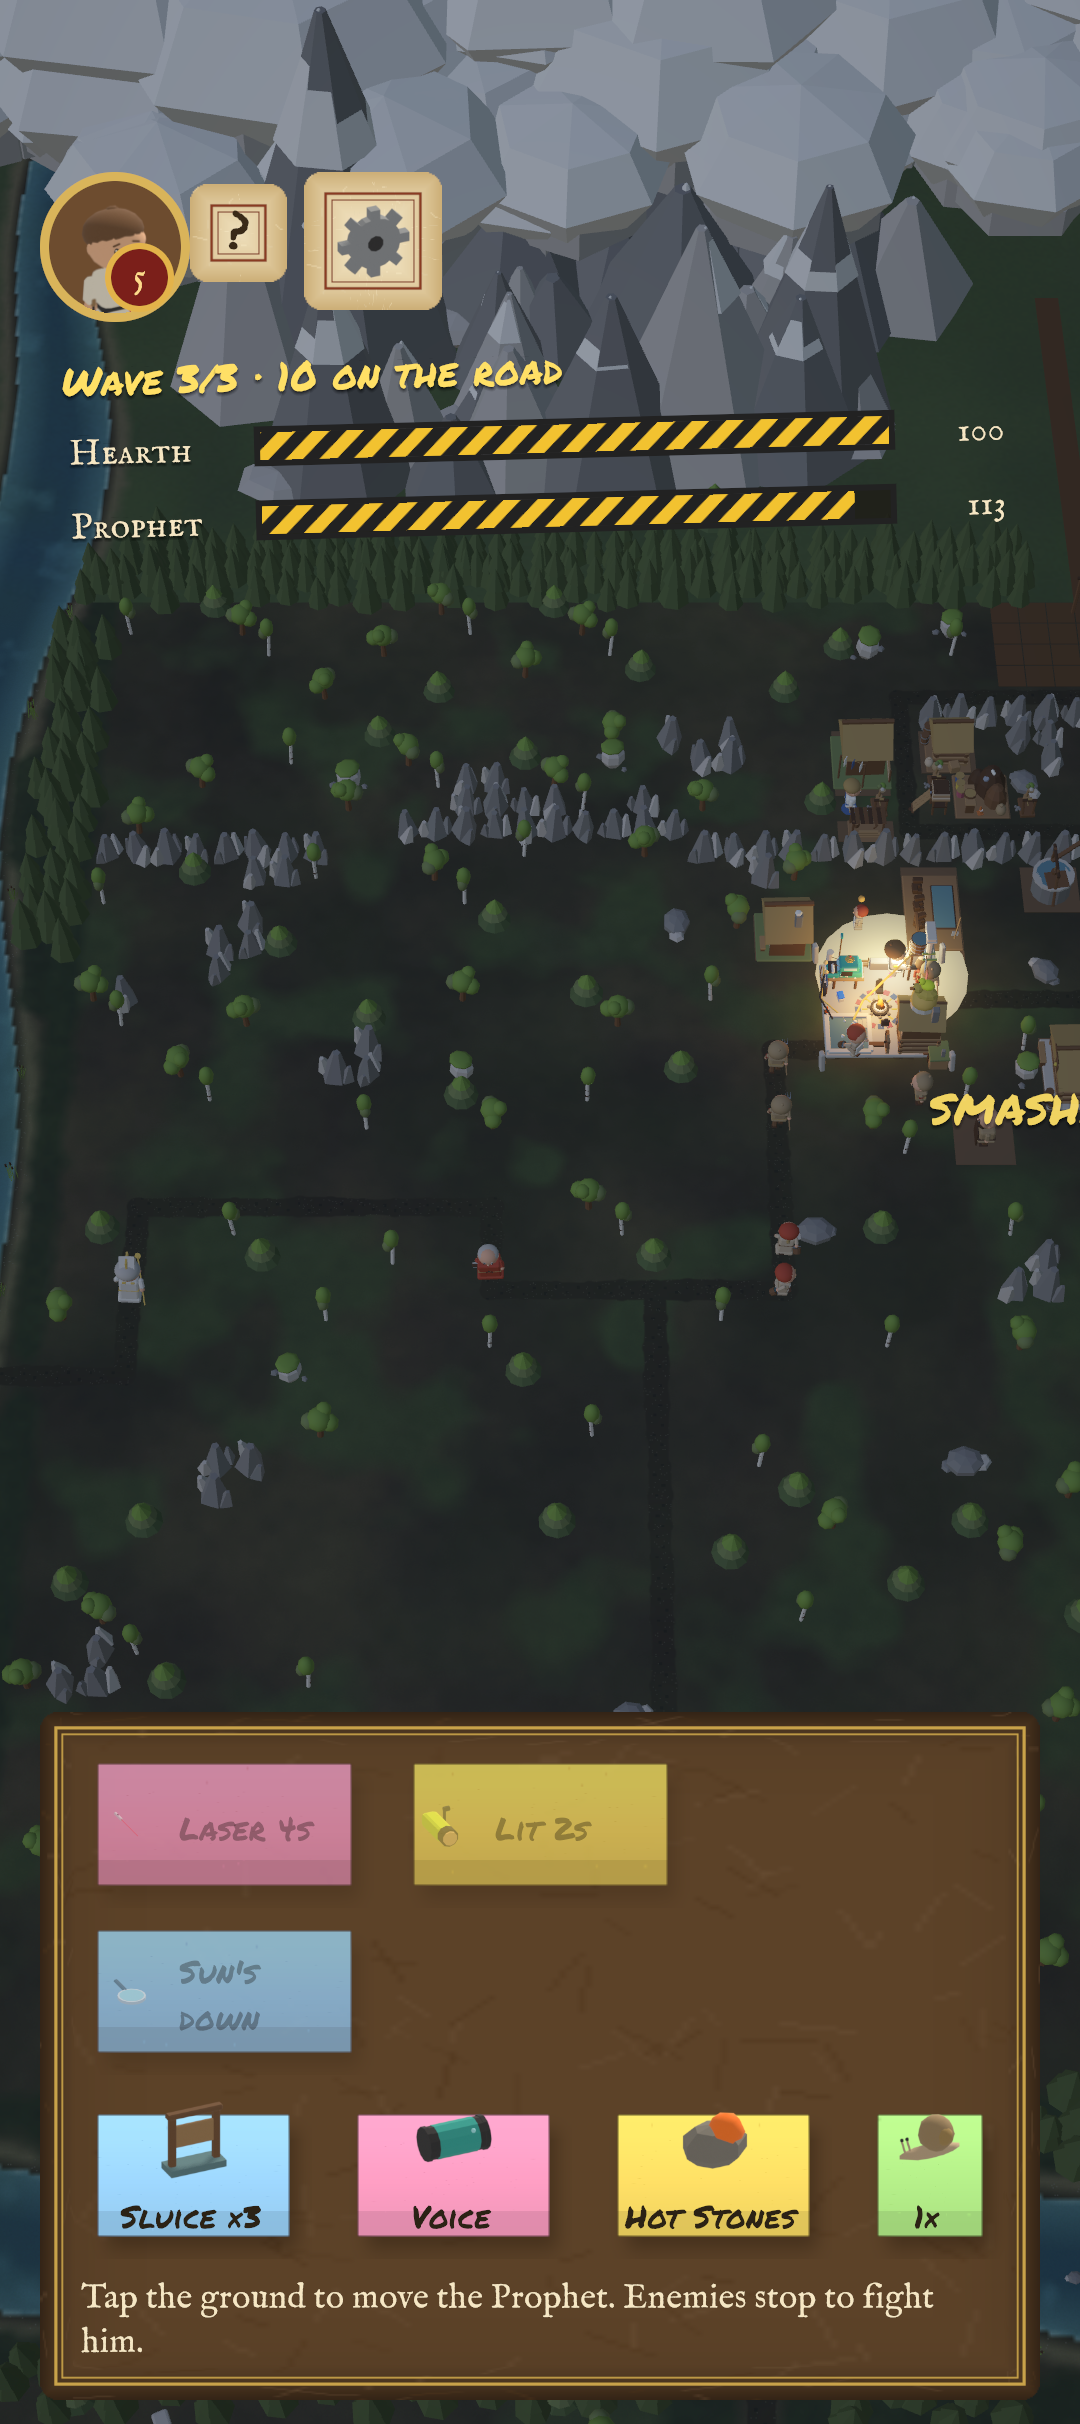
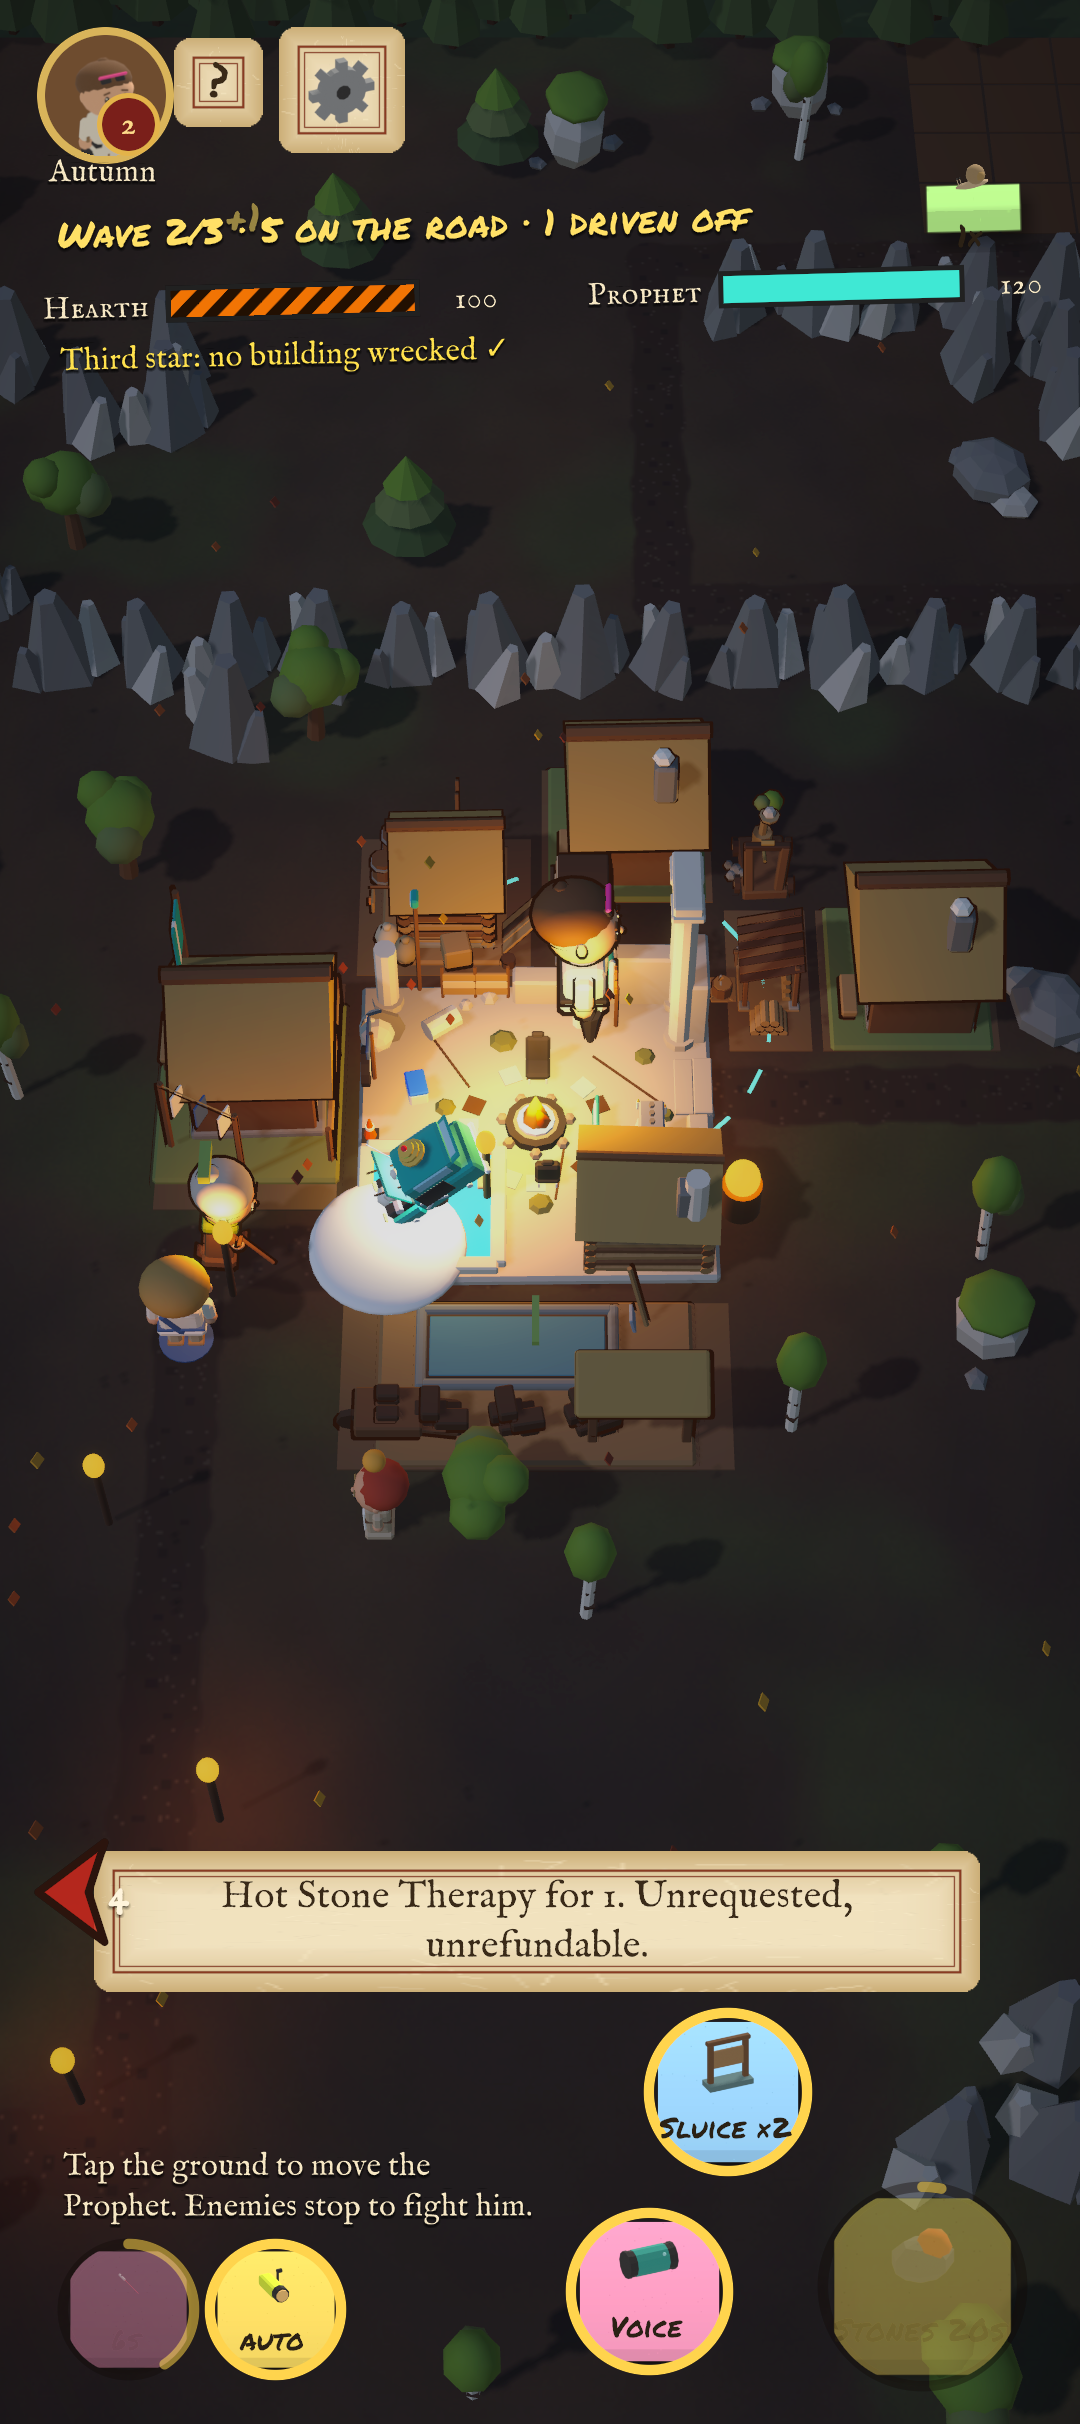
Fun first F5, the store: a new feature graphic from a close Night (the Hearth's glow, the fire), and three new screenshots captured in the game at the Pixel's 1080 × 2424 (a lived-in Hearth 2 village, Hot Stones landing by the Hearth, the breather's boons); NightCapture_Store_WritesShots takes them.

diff --git a/client/CultOfComfort.Unity/Assets/Tests/PlayMode/NightCapture.cs b/client/CultOfComfort.Unity/Assets/Tests/PlayMode/NightCapture.cs
@@ -1,6 +1,7 @@
 using System;
 using System.Collections;
 using System.IO;
+using System.Linq;
 using CultOfComfort.Contracts;
 using NUnit.Framework;
 using UnityEngine;
@@ -144,7 +145,46 @@ namespace CultOfComfort.Client.Tests
             PlayerPrefs.DeleteKey(GameController.RosterSeenKey);
         }
 
-        private static IEnumerator Capture(bool portrait)
+        /// <summary>
+        /// The store's captures (spec 2026-11-17 fun first, F5): the Pixel's full 1080 × 2424, a lived-in village at Dusk,
+        /// a close Night with the Prophet mid-skill, the breather's boons. Into store-assets/_src/shots/ for build.mjs.
+        /// </summary>
+        [UnityTest]
+        public IEnumerator NightCapture_Store_WritesShots() => Capture(true, forStore: true);
+
+        /// <summary>A village worth a screenshot: Hearth 2, the first buildings, two towers by the road. Spots found by trying.</summary>
+        private static CultOfComfort.Simulation.Base.BaseData LivedIn(DateTimeOffset now)
+        {
+            var rich = new CultOfComfort.Simulation.Base.BuildingTable { StartingStock = new CultOfComfort.Simulation.Base.ResourceBag(20000, 5000, 5000, 500) };
+            var map = CultOfComfort.Simulation.Base.VillageMap.Demo;
+            var state = CultOfComfort.Simulation.Base.BaseState.CreateNew(rich, map, now);
+            state.Apply(new CultOfComfort.Simulation.Base.UpgradeHearth(Guid.NewGuid()), now);
+            state.Apply(new CultOfComfort.Simulation.Base.FinishConstructionNow(Guid.NewGuid()), now);
+            var hearth = map.HearthTiles[0];
+            var spots = Enumerable.Range(0, map.Width).SelectMany(x => Enumerable.Range(0, map.Height).Select(y => new CultOfComfort.Simulation.Grid.GridPosition(x, y)))
+                .OrderBy(p => Math.Abs(p.X - hearth.X) + Math.Abs(p.Y - hearth.Y)).ToList();
+            foreach (var type in new[]
+                     {
+                         CultOfComfort.Simulation.Base.BuildingType.Woodcutter, CultOfComfort.Simulation.Base.BuildingType.Cottage,
+                         CultOfComfort.Simulation.Base.BuildingType.StorageHut, CultOfComfort.Simulation.Base.BuildingType.CultistHut,
+                         CultOfComfort.Simulation.Base.BuildingType.PeatCut, CultOfComfort.Simulation.Base.BuildingType.Cottage,
+                         CultOfComfort.Simulation.Base.BuildingType.SlurryChute, CultOfComfort.Simulation.Base.BuildingType.SaplingFlinger,
+                     })
+            {
+                foreach (var spot in spots.Skip(6))
+                {
+                    if (state.Apply(new CultOfComfort.Simulation.Base.PlaceBuilding(Guid.NewGuid(), type, spot), now).Status == CultOfComfort.Simulation.Base.CommandStatus.Accepted)
+                    {
+                        state.Apply(new CultOfComfort.Simulation.Base.FinishConstructionNow(Guid.NewGuid()), now);
+                        break;
+                    }
+                }
+            }
+
+            return state.ToData();
+        }
+
+        private static IEnumerator Capture(bool portrait, bool forStore = false)
         {
             var clock = new Clock();
             var table = CultOfComfort.Simulation.Base.BuildingTable.Default;
@@ -154,6 +194,10 @@ namespace CultOfComfort.Client.Tests
             if (!string.IsNullOrEmpty(path) && File.Exists(path))
             {
                 data = VillageSaveMapping.FromDto(JsonUtility.FromJson<VillageSaveDto>(File.ReadAllText(path)));
+            }
+            else if (forStore)
+            {
+                data = LivedIn(clock.UtcNow);
             }
             else
             {
@@ -169,14 +213,14 @@ namespace CultOfComfort.Client.Tests
             yield return Frames(6);
             yield return GroundPainted();
 
-            var width = portrait ? Short : Long;
-            var height = portrait ? Long : Short;
+            var width = forStore ? 1080 : portrait ? Short : Long;
+            var height = forStore ? 2424 : portrait ? Long : Short;
             var game = UnityEngine.Object.FindAnyObjectByType<GameController>();
             var document = game.GetComponent<UIDocument>();
             var ui = new RenderTexture(width, height, 24);
             document.panelSettings.targetTexture = ui;
             document.panelSettings.scaleMode = PanelScaleMode.ConstantPixelSize;
-            document.panelSettings.scale = Scale;
+            document.panelSettings.scale = forStore ? Scale * 2f : Scale;
             document.panelSettings.clearColor = true;
             document.panelSettings.colorClearValue = new Color(0f, 0f, 0f, 0f);
             var world = new RenderTexture(width, height, 24) { antiAliasing = 4 };
@@ -187,6 +231,12 @@ namespace CultOfComfort.Client.Tests
             var suffix = portrait ? "portrait" : "landscape";
             var output = Path.GetFullPath(Path.Combine(Application.dataPath, "..", "..", "..", "art", "previews", "night"));
             Directory.CreateDirectory(output);
+            if (forStore)
+            {
+                yield return StoreShots(game, world, ui, Path.GetFullPath(Path.Combine(Application.dataPath, "..", "..", "..", "store-assets", "_src", "shots")));
+                yield break;
+            }
+
             Save(world, ui, Path.Combine(output, $"dusk_{suffix}.png"));
             game.StartNight();
             Time.captureDeltaTime = 1f / 30f;
@@ -203,6 +253,43 @@ namespace CultOfComfort.Client.Tests
                 {
                     yield return Frames(15);
                     Save(world, ui, Path.Combine(output, $"night_gap_{suffix}.png"));
+                    break;
+                }
+
+                yield return null;
+            }
+        }
+
+        private static IEnumerator StoreShots(GameController game, RenderTexture world, RenderTexture ui, string output)
+        {
+            Directory.CreateDirectory(output);
+            Save(world, ui, Path.Combine(output, "village.png"));
+            game.StartNight();
+            Time.captureDeltaTime = 1f / 30f;
+            var flags = System.Reflection.BindingFlags.NonPublic | System.Reflection.BindingFlags.Instance;
+            var field = typeof(GameController).GetField("_battle", flags);
+            var stones = typeof(GameController).GetMethod("ToggleAimingStones", flags);
+
+            // The Prophet mid-skill: Hot Stones on the first knot of raiders in reach, caught as they land.
+            for (var frame = 0; frame < 3000; frame++)
+            {
+                if (field.GetValue(game) is CultOfComfort.Simulation.Combat.Battle battle && battle.IsHotStonesReady && battle.BestHotStonesTarget() != null)
+                {
+                    stones.Invoke(game, null);
+                    yield return Frames(24); // as they land, in a puff
+                    Save(world, ui, Path.Combine(output, "night.png"));
+                    break;
+                }
+
+                yield return null;
+            }
+
+            for (var frame = 0; frame < 6000; frame++)
+            {
+                if (field.GetValue(game) is CultOfComfort.Simulation.Combat.Battle { IsGapOpen: true })
+                {
+                    yield return Frames(15);
+                    Save(world, ui, Path.Combine(output, "boons.png"));
                     break;
                 }
 

diff --git a/store-assets/PLAY-LISTING.md b/store-assets/PLAY-LISTING.md
@@ -66,7 +66,7 @@ YOU DECIDE WHEN TO FIGHT
 
 A PROPHET, A VALLEY, A WORLD
 • Your Prophet fights at night, earns experience, climbs ten levels and picks perks.
-• Send missionaries across the world map, and pay tithes to keep the lords calm.
+• Send preachers across the world map, and pay tithes to keep the lords calm.
 • Your cult shares the world with other players' cults.
 • Seasons change the valley and the raids: spring floods a bridge, winter ices the river.
 
@@ -102,14 +102,18 @@ Regenerate: `node store-assets/_src/build.mjs`. Screens come from real phone cap
 
 | File | Headline / subline | Capture (`_src/shots/…`) |
 |---|---|---|
-| `phone-1-village.png` | Build a spa *out of junk.* | `village.png`: Hearth 5 village by day |
-| `phone-2-night.png` | When the raiders come, *hold the Hearth.* | `night.png`: a Night, the Prophet's torch lit at the Hearth |
-| `phone-3-towers.png` | Place, turn and *upgrade towers.* | `towers.png`: placing a Sapling Flinger, range and Turn showing |
-| `phone-4-warning.png` | Every raid *is announced.* | `warning.png`: Dusk, "Punitive raid · 7h 59m" |
-| `phone-5-world.png` | A world shared *with other cults.* | `world.png`: the lands map |
-| `phone-6-people.png` | Villagers with *a talent each.* | `prophet.png`: Cult → People, the notables |
-| `phone-7-festival.png` | Seven themed days *every week.* | `festival.png`: the Comfort Festival sheet |
-| `phone-8-verified.png` | Every raid replayed *and verified.* | `verified.png`: dawn card, 3 stars, VERIFIED |
+| `phone-1-village.png` | Build a spa *out of junk.* | `village.png`: a Hearth 2 village at Dusk (F5 capture) |
+| `phone-2-night.png` | When the raiders come, *hold the Hearth.* | `night.png`: a close Night, Hot Stones landing by the Hearth (F5 capture) |
+| `phone-3-boons.png` | Catch your breath, *pick a boon.* | `boons.png`: the breather, three boons and *Call now* (F5 capture) |
+| `phone-4-towers.png` | Place, turn and *upgrade towers.* | `towers.png`: placing a Sapling Flinger, range and Turn showing |
+| `phone-5-warning.png` | Every raid *is announced.* | `warning.png`: Dusk, "Punitive raid · 7h 59m" |
+| `phone-6-world.png` | A world shared *with other cults.* | `world.png`: the lands map |
+| `phone-7-people.png` | Villagers with *a talent each.* | `prophet.png`: Cult → People, the notables |
+| `phone-8-festival.png` | Seven themed days *every week.* | `festival.png`: the Comfort Festival sheet |
+
+The first three come from `NightCapture_Store_WritesShots` (a Unity PlayMode capture at the Pixel's 1080 × 2424:
+`unity test client/CultOfComfort.Unity --mode PlayMode --filter NightCapture_Store_WritesShots`); the rest are
+0.1.0's phone captures, still true of 0.2.0 but in the old look: retake them on the phone when convenient.
 
 Captures are portrait, 1080×2424, from the `coc-shots` emulator (Android 36, Pixel 9 profile, GPU on) running a
 non-development APK (`BuildAndroid -noDevelopment`) with the dev key, played up to Hearth 5 on 2026-10-20.
